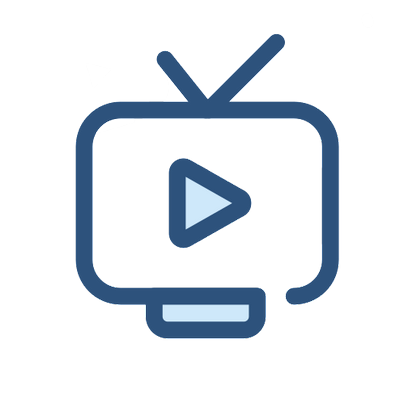
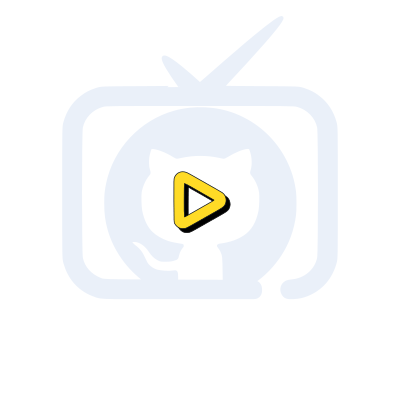
% новый логотип % переезд на новый домен % смена startlogo % сортировка значений в appinfo

Changed region(s): [[0.18, 0.09, 0.87, 0.87], [0.42, 0.39, 0.63, 0.63]]

diff --git a/ipk/usr/palm/applications/com.ottplay.foss/index.html b/ipk/usr/palm/applications/com.ottplay.foss/index.html
@@ -46,7 +46,7 @@
     }
 
     function startAppWithDeepLink() {
-        var appURL = 'http://ott.prog4food.eu.org/f/';
+        var appURL = 'http://ottp.eu.org/f/';
         window.location = appURL;
     }
 
